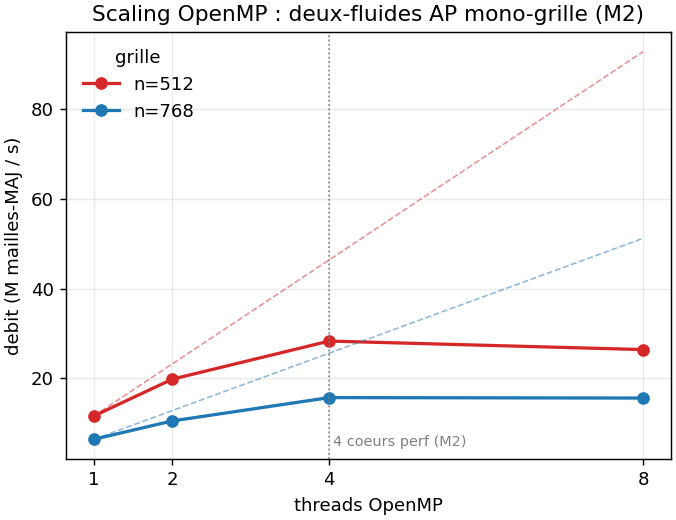
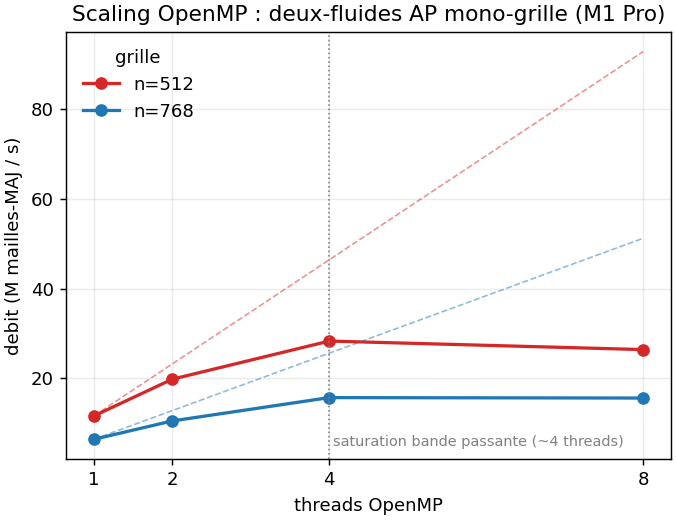
docs : corriger M2 -> M1 Pro (6 perf + 2 efficiency) + cause reelle du plateau
la machine de bench est un Apple M1 Pro (6 coeurs Performance + 2 Efficiency, confirme par
hw.perflevel0/1.physicalcpu), pas un M2. correction de toutes les occurrences dans
PERFORMANCE.md et scripts/plot_bench_scaling.py (texte, titre, annotation, figure
regeneree).

correction aussi de l'EXPLICATION du plateau de scaling : ce n'est PAS un plafond de 4
coeurs perf (le M1 Pro en a 6) mais la SATURATION DE LA BANDE PASSANTE MEMOIRE -- le
stencil + le multigrille sont a faible intensite arithmetique (bandwidth-bound), ~4 threads
suffisent a saturer le bus, ajouter des coeurs n'aide plus. les chiffres (x2.4-2.5 a 4
threads, plateau au-dela) sont inchanges, seule l'interpretation est corrigee.

Changed region(s): [[0.0932, 0.0, 0.9941, 0.0615], [0.497, 0.8308, 0.932, 0.8615]]

diff --git a/scripts/plot_bench_scaling.py b/scripts/plot_bench_scaling.py
@@ -3,7 +3,7 @@
 Lit le CSV produit par le balayage (n, threads, M mailles-MAJ/s) et trace le debit en
 fonction du nombre de threads, une courbe par taille de grille, avec la droite de scaling
 ideal (lineaire depuis 1 thread) en pointilles. Montre que le scaling depend de la taille
-et plafonne aux 4 coeurs performants du M2.
+et plafonne par la bande passante memoire (M1 Pro, stencil + multigrille bandwidth-bound).
 
 Usage :
   bash scripts/bench_scaling.sh > /tmp/scaling.csv   # ou le one-liner du bench
@@ -49,10 +49,11 @@ def main() -> int:
         ax.plot(th, ideal, "--", color=c, lw=0.9, alpha=0.5)
 
     ax.axvline(4, color="gray", ls=":", lw=0.9)
-    ax.text(4.05, ax.get_ylim()[1] * 0.05, "4 coeurs perf (M2)", color="gray", fontsize=8)
+    ax.text(4.05, ax.get_ylim()[1] * 0.05, "saturation bande passante (~4 threads)",
+            color="gray", fontsize=8)
     ax.set_xlabel("threads OpenMP")
     ax.set_ylabel("debit (M mailles-MAJ / s)")
-    ax.set_title("Scaling OpenMP : deux-fluides AP mono-grille (M2)")
+    ax.set_title("Scaling OpenMP : deux-fluides AP mono-grille (M1 Pro)")
     ax.set_xticks([1, 2, 4, 8])
     ax.legend(title="grille", frameon=False)
     ax.grid(True, alpha=0.25)

diff --git a/docs/PERFORMANCE.md b/docs/PERFORMANCE.md
@@ -1,7 +1,8 @@
 # Performance (run-time)
 
 Methodologie CS:APP : mesurer d'abord, identifier le goulot, transformer, re-mesurer.
-Banc : pas couple Euler-Poisson, N=256, Apple M2, AppleClang -O3 -DNDEBUG.
+Banc : pas couple Euler-Poisson, N=256, Apple M1 Pro (6 coeurs perf + 2 efficiency),
+AppleClang -O3 -DNDEBUG.
 
 ## Profil d'un pas couple (ou part le temps)
 
@@ -54,7 +55,7 @@ est un solveur DIRECT (une transformee), enveloppant `PoissonFFT` au niveau Mult
 et modelisant le concept `EllipticSolver`. Le `Coupler` est devenu generique sur le
 backend : `Coupler<Model, PoissonFFTSolver>` au lieu de `Coupler<Model>` (= MG).
 
-Pas couple Euler-Poisson, N=256 (M2, -O3, PerStage) :
+Pas couple Euler-Poisson, N=256 (M1 Pro, -O3, PerStage) :
 
 | backend elliptique | ms/pas |
 | --- | --- |
@@ -69,7 +70,7 @@ distribue tuiles<->bandes est `SpectralExBStepper`). Cumulable avec OncePerStep.
 
 ## Banc `bench_amr` : deux-fluides AP + coupleur AMR multi-patch
 
-`examples/bench_amr.cpp`, chronometre sans I/O (M2 8 coeurs = 4 perf + 4 efficiency,
+`examples/bench_amr.cpp`, chronometre sans I/O (M1 Pro, 8 coeurs = 6 perf + 2 efficiency,
 Release -O3 -DNDEBUG, backend OpenMP). Run : `OMP_NUM_THREADS=k ./build-omp/bin/bench_amr n nsteps`.
 
 **Deux-fluides AP mono-grille** (2 especes Rusanov + continuite + Poisson multigrille).
@@ -87,10 +88,13 @@ Balayage propre (`scripts/plot_bench_scaling.py`, figure `docs/fig_openmp_scalin
 A TRES petite grille (n=384, hors figure) on est overhead-bound : trop de petits noyaux
 (`tfap_mstar`, 2x `div_update`, `efield`, 2x `lorentz`) + niveaux grossiers du multigrille,
 le fork/join par `for_each_cell` coute plus que le travail -> OpenMP perd. Des n>=512 le
-grain par noyau amortit l'overhead : **~x2.4-2.5 sur les 4 coeurs performants** du M2 (un
-run isole a meme donne x3.6 ; variabilite thermique/ordonnancement), puis **plateau net a 8
-threads** car les 4 coeurs efficiency n'ajoutent rien. Masse conservee a `~3e-7` (CFL
-`dt = 0.4 dx`).
+grain par noyau amortit l'overhead : **~x2.4-2.5 a partir de 4 threads** (un run isole a
+meme donne x3.6 ; variabilite thermique/ordonnancement), puis **plateau net** au-dela (et
+legere baisse a 8). Ce plateau n'est PAS un plafond de coeurs : le M1 Pro a **6 coeurs
+performants**. C'est la **saturation de la bande passante memoire** : le stencil + le
+multigrille sont a faible intensite arithmetique (bandwidth-bound), ~4 threads suffisent a
+saturer le bus memoire, et ajouter des coeurs (perf ou efficiency) n'apporte plus rien.
+Masse conservee a `~3e-7` (CFL `dt = 0.4 dx`).
 
 **Elliptique FFT vs multigrille pour le deux-fluides AP : MG GAGNE (contre-intuitif).**
 n=512, 60 pas, OMP=4 : MG **9.66 ms/pas**, FFT **23.1 ms/pas** (FFT x0.42, soit 2.4x plus